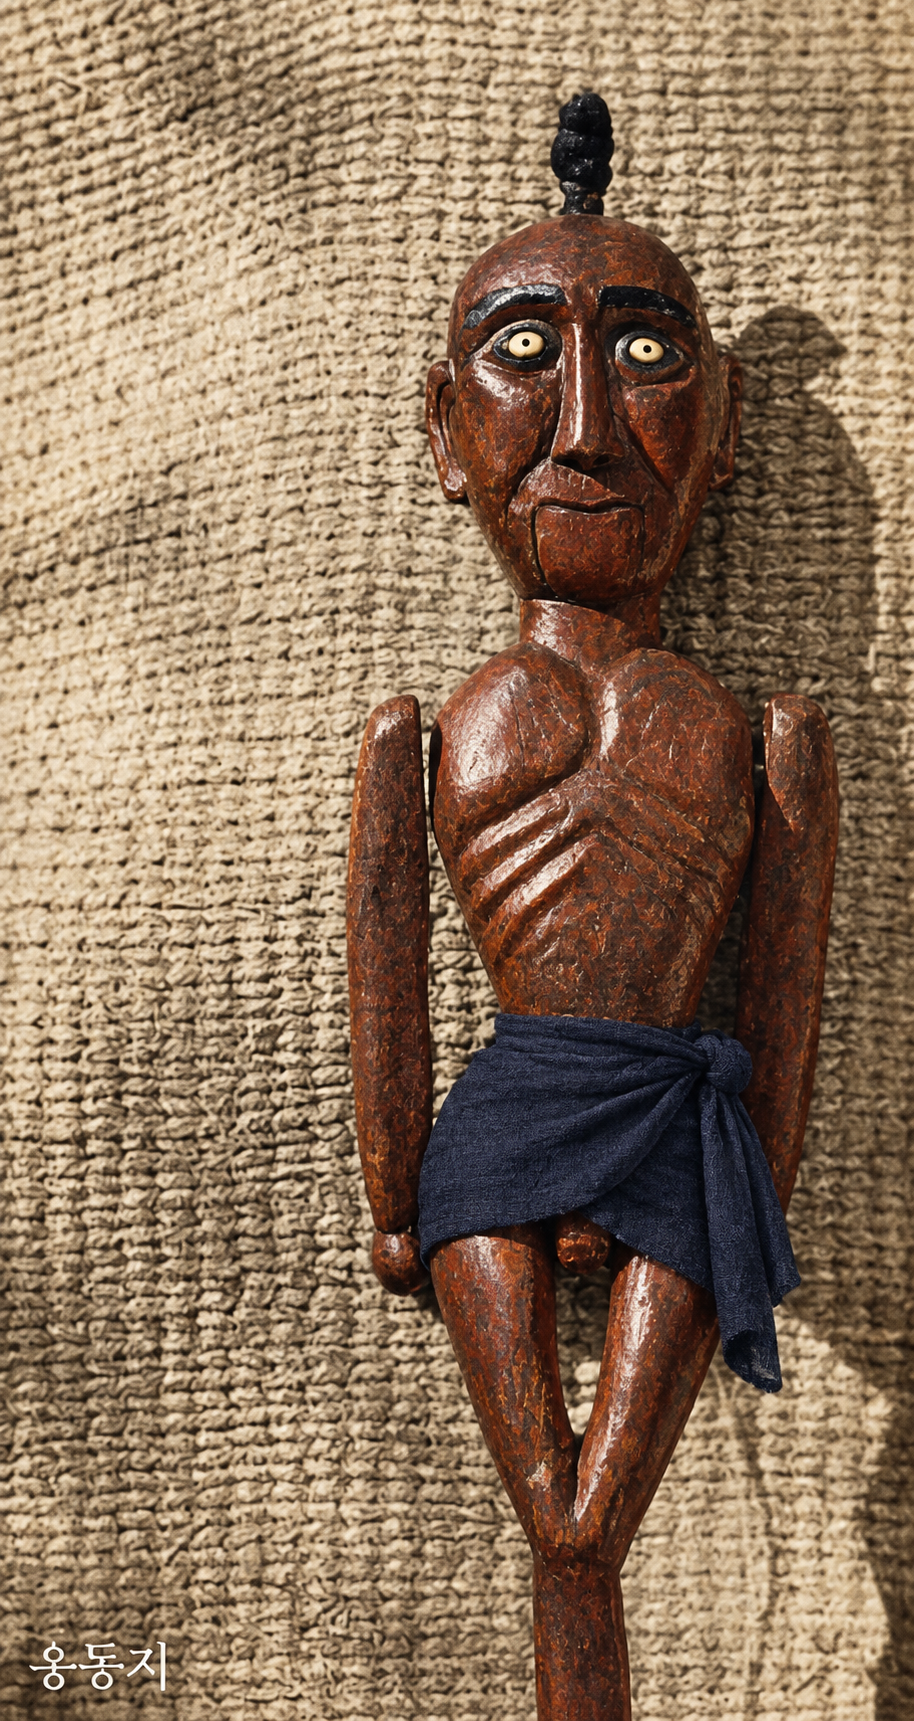
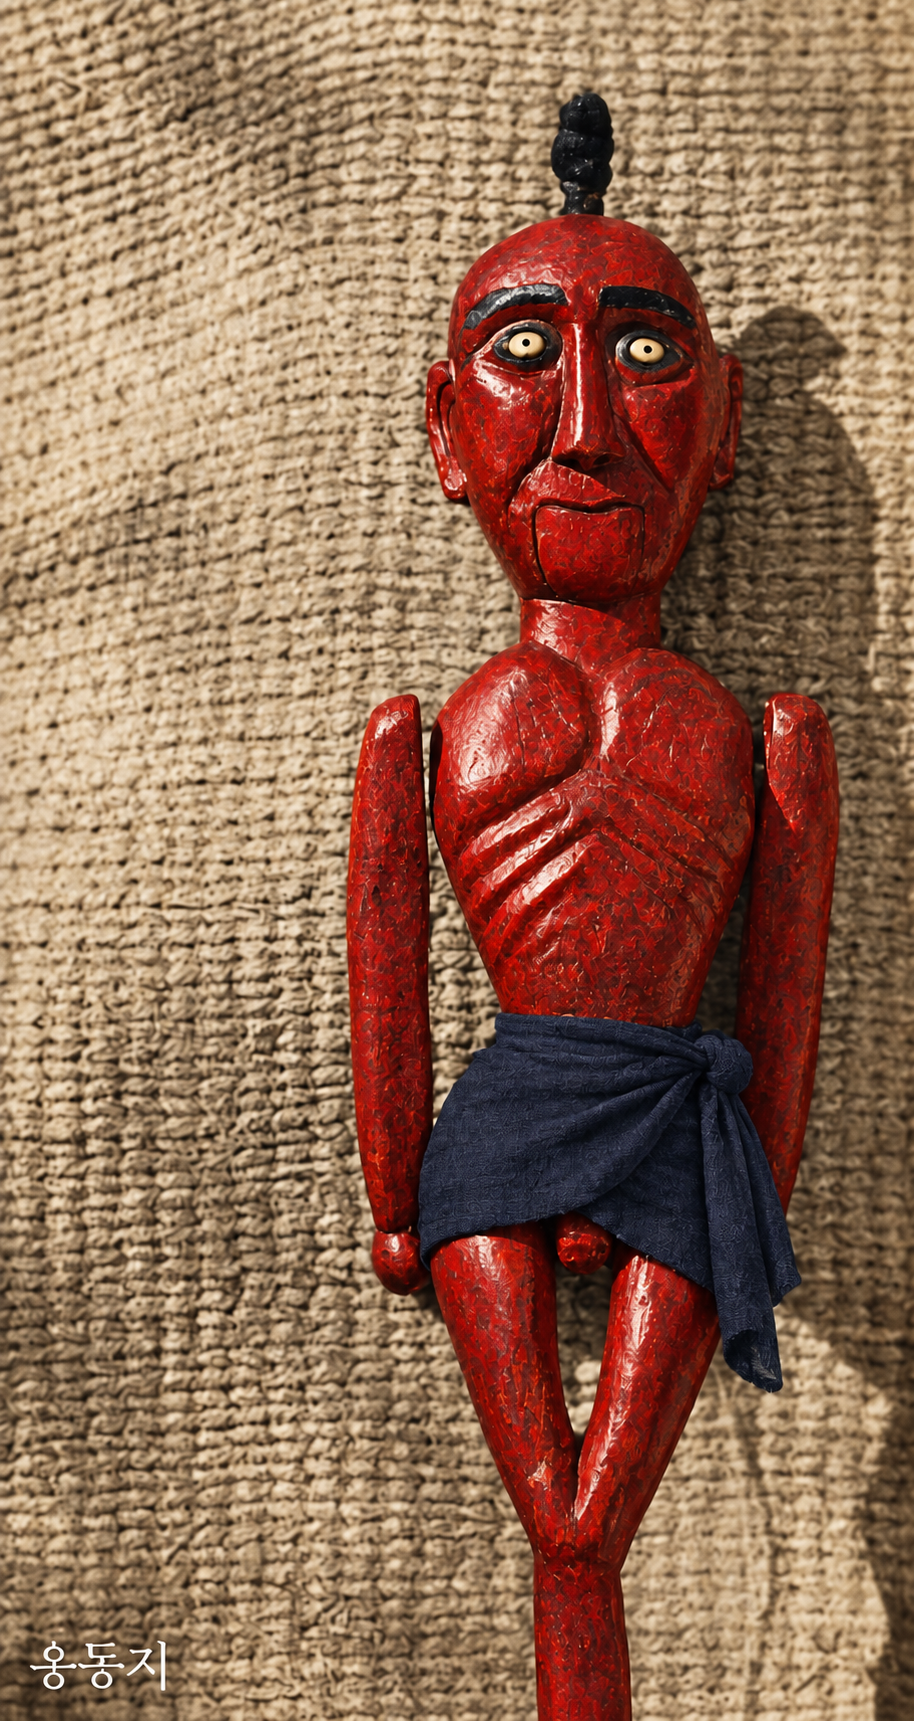
fix: 홍동지 몸체를 붉은색으로 보정

diff --git a/99_Logs/2026/2026년 9월 작업 로그.md b/99_Logs/2026/2026년 9월 작업 로그.md
@@ -14,8 +14,9 @@ updated: 2026-09-29
 - `assets/시범콘텐츠/덜미/`의 흑백 PNG 17장을 내장 이미지 편집 기능으로 각각 컬러화하고, 원본 파일은 유지한 채 `output/덜미/`에 같은 파일명으로 저장함
 - 목각인형의 얼굴, 자세, 의상 구조, 배경 직물, 구도와 하단 한글 표기를 유지하면서 따뜻한 목재색, 한복 계열의 저채도 전통색과 중성 배경색을 적용함. 색상은 원자료에서 확인한 역사적 확정값이 아니라 생성 해석임
 - `홍동지.png`는 원본의 하체 조형 때문에 내장 안전 필터가 세 차례 출력을 거부함. 최종 결과는 짙은 남색 허리 천을 추가해 생성했으며, 이 파일만 원본 조형과 다른 요소가 있음
+- 사용자 확인에서 홍동지의 몸체가 붉은색이라는 정정을 받아 어두운 적갈색을 선명한 주홍과 진홍 계열 옻칠색으로 수정함. 남색 허리 천, 검은 머리와 안면선, 배경과 하단 표기는 유지함
 - P1 자기검수에서 17개 원본과 결과의 인형 수, 주요 얼굴 특징, 자세, 구도와 파일명 대응을 확인함. P5 자기검수에서 위키 문서와 anchor는 변경하지 않았음을 확인함
-- G1 판정: 외부 노출 가능 이미지 자산이며 `홍동지.png`에 원본과 다른 허리 천이 추가돼 사용자 확인 대기
+- G1 판정: 홍동지의 붉은색 정정은 반영함. `홍동지.png`에 원본과 다른 허리 천이 남아 있어 최종 사용자 확인 대기
 - 생성 파일: `output/덜미/`의 `귀팔이.png`, `꼭두각시.png`, `덜머리집.png`, `묵대사.png`, `박첨지.png`, `박첨지손자.png`, `상좌.png`, `상주.png`, `이시미.png`, `작은박첨지.png`, `평안감사.png`, `표생원.png`, `피조리_1.png`, `피조리_2.png`, `홍동지.png`, `홍백가(백).png`, `홍백가(홍).png`; 수정 파일: `99_Logs/2026/2026년 9월 작업 로그.md`
 
 ## [2026-09-28] update | 박첨지거리 씨댄스 프롬프트 중단 작업 재개
